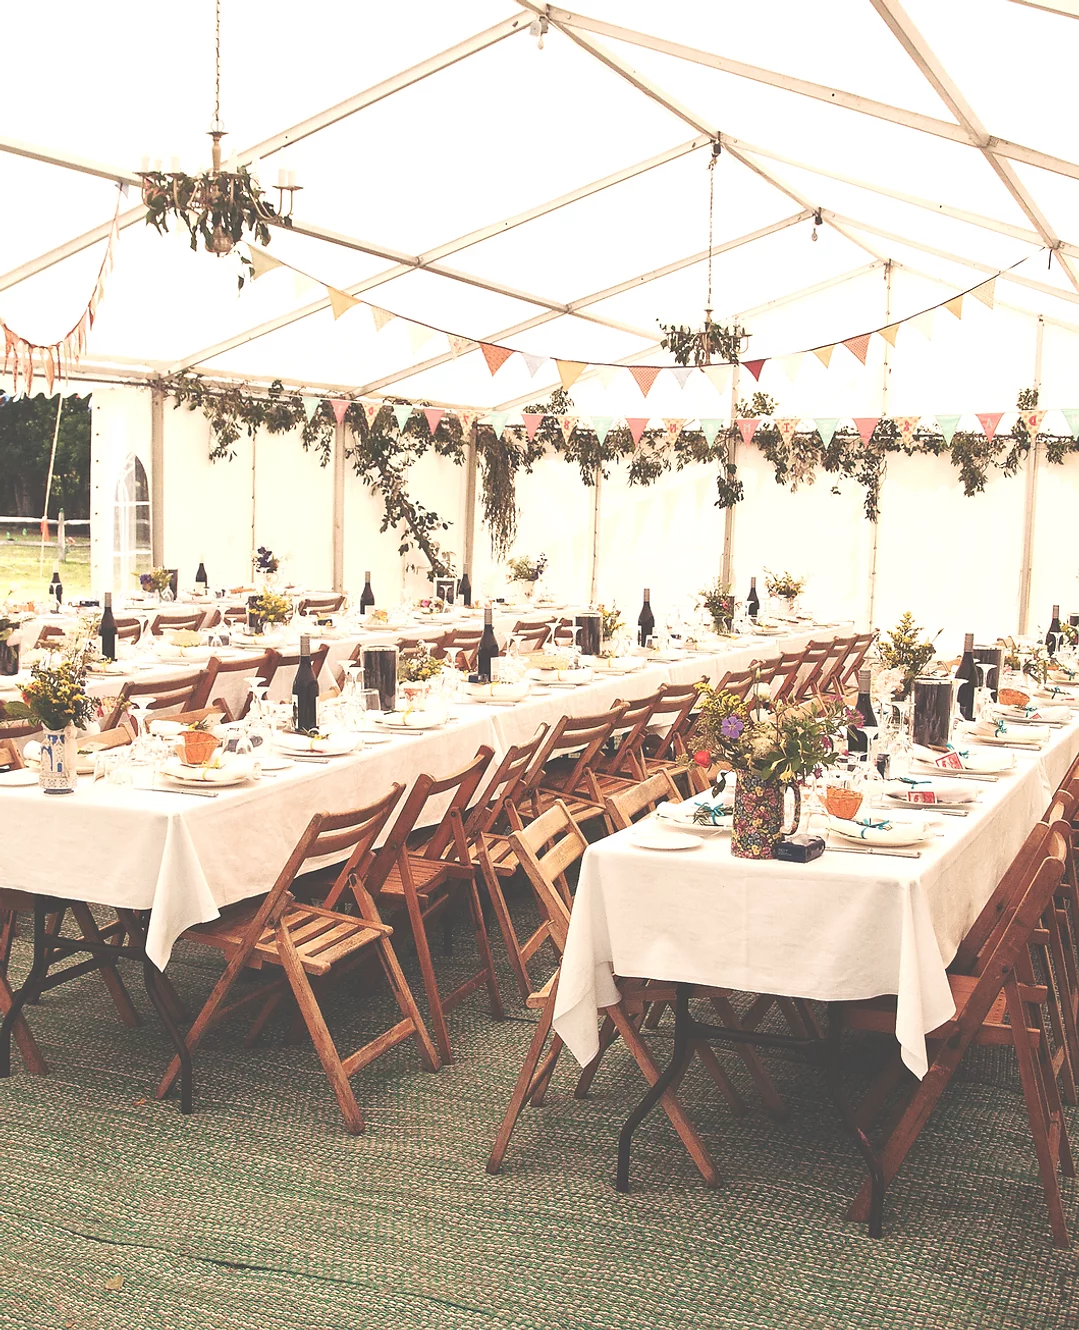
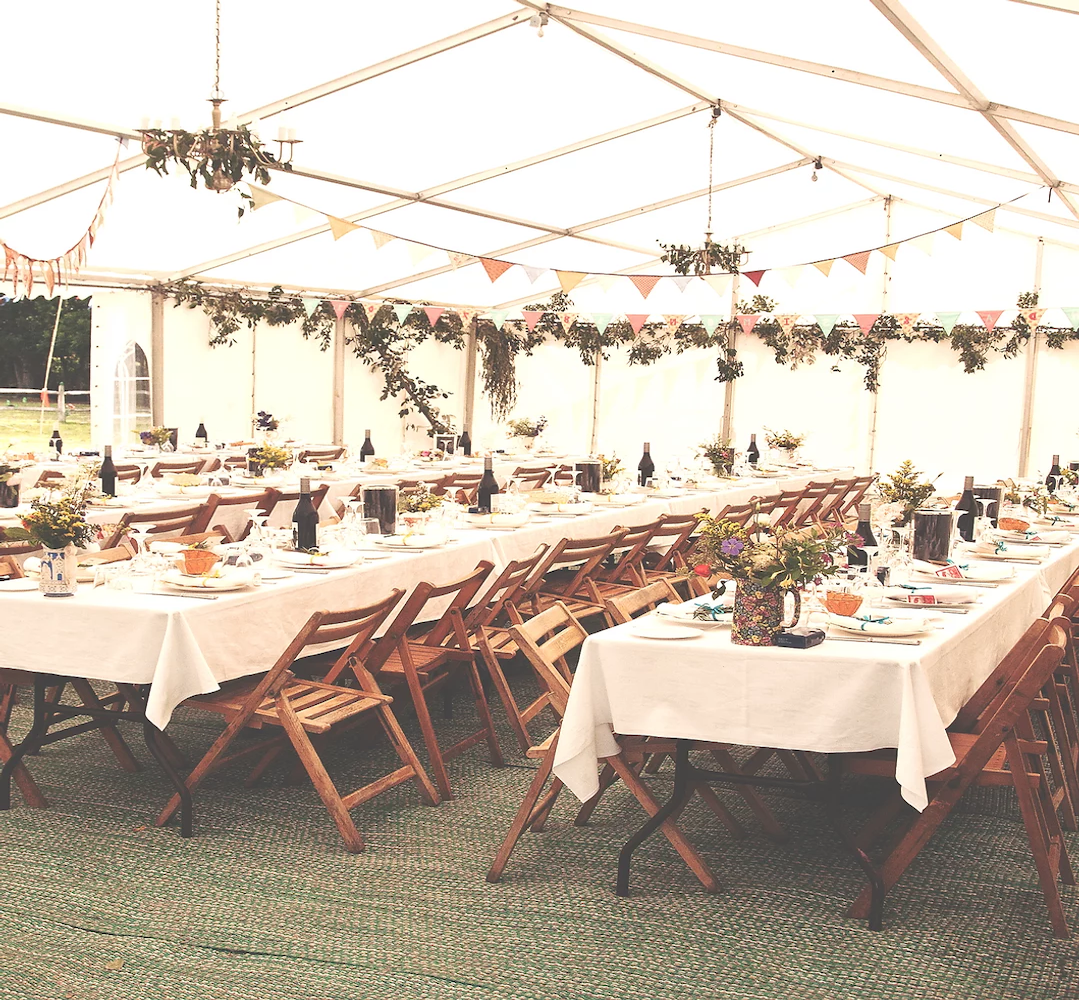
completed all sections without perfect styling

Changed region(s): [[0.5199, 0.961, 0.5811, 0.992], [0.6117, 0.961, 0.6423, 0.992]]

diff --git a/sm64.html b/sm64.html
@@ -5,46 +5,97 @@
     <meta name="viewport" content="width=device-width, initial-scale=1.0">
     <title>Assignment 1</title>
     <link rel="stylesheet" href="css/sm64.css">
+    <link rel="preconnect" href="https://fonts.googleapis.com">
+    <link rel="preconnect" href="https://fonts.gstatic.com" crossorigin>
+    <link href="https://fonts.googleapis.com/css2?family=EB+Garamond&display=swap" rel="stylesheet">    
+    <link href="https://fonts.googleapis.com/css2?family=Montserrat:wght@100&display=swap" rel="stylesheet">
+
 </head>
 <body>
     <nav class="sticky">
-        <div class = "left"><h4 id = "mainevent">MAIN EVENTS</h4></div>
+        <div class = "left"><h4 id = "mainevent" style="color: #a68e4c; font-size: 15px">MAIN EVENTS</h4></div>
         <div class = "right">
             <div></div>
-            <div>Home</div>
-            <div>Services</div>
-            <div>About</div>
-            <div>Gallery</div>
-            <div>Contact</div>
+            <button class = "nav-button" style="color: #a68e4c;  font-size: 12px">Home</button>
+            <button class = "nav-button" style = " font-size: 12px;">Services</button>
+            <button class = "nav-button" style = " font-size: 12px;">About</button>
+            <button class = "nav-button" style = " font-size: 12px;">Gallery</button>
+            <button class = "nav-button" style = " font-size: 12px;">Contact</button>
             <div></div>
         </div>
     </nav>
     <div class = "firstimage">
        <div class = "text-container-1">
-        <div>Creating</div>
-        <div>Unforgettable</div>
-        <div>Memories</div>
+        <div class = "text-1">Creating</div>
+        <div class = "text-1">Unforgettable</div>
+        <div class = "text-1">Memories</div>
        </div>
     </div>
     <div class = "secondsection">
         <div class = "servicesbox">
-            <div>SERVICES</div>
-            <div></div>
-            <div>*image here*</div>
-            <div>Turn the dream into a</div>
-            <div>reality</div>
-            <div>DISCOVER</div>
+            <div id = "flower-container">
+                <div style = "font-family: 'Montserrat', sans-serif; font-weight:bolder; color: white; letter-spacing: 10px; font-size: 20px;">SERVICES</div>
+            </div>
+            <div style="font-family: 'EB Garamond', serif; color: white;">Turn the dream into a</div>
+            <div style="font-family: 'EB Garamond', serif; color: white;">reality</div>
+            <button id = "transparent-button-1" style="color: white;">DISCOVER</button>
         </div>
-        <div class = "weddingimage"></div>
+        <div class = "weddingimage">
+            <img src = "./images/assignment1images/image1.png" height=430px width=500px>
+        </div>
     </div>
     <div class = "thirdsection">
         <div><img src = "images/assignment1images/doublecomma.png" height = 15px width = auto></div>
+        <div>&nbsp;</div>
+        <div>&nbsp;</div>
         <div>&nbsp;</div>
         <div>I'm a testimonial. Click to edit</div>
         <div>this text and say something nice</div>
         <div>about you and your services.</div>
         <div>&nbsp;</div>
+        <div>&nbsp;</div>
+        <div>&nbsp;</div>
+        <div>&nbsp;</div>
         <div style = "font-size: 12px;">Jimmy and Janice</div>
+    </div>
+    <div class = "fourthsection">
+        <div class = "third-image-container">
+            <div class = "gallerybox">
+                <div>GALLERY</div>
+                <div>&nbsp;</div>
+                <div>&nbsp;</div>
+                <div>&nbsp;</div>
+                <div>*image here*</div>
+                <div>Unforgettable</div>
+                <div>&nbsp;</div>
+                <div>Memories</div>
+                <div>&nbsp;</div>
+                <div>&nbsp;</div>
+                <div>&nbsp;</div>
+                <div><button id = "transparent-button-1">DISCOVER</button></div>
+            </div>
+        </div>
+    </div>
+    <div class = finalsection>
+        <div class ="footer">
+            <div id = "address">
+                <div>500 Temple Street</div>
+                <div>San Francisco</div>
+                <div>CA 94155</div>
+            </div>
+            <div id = "contact">
+                <div id = "footer-text">Tel: 123-555-1212</div>
+                <div id = "footer-text">Fax: 123-555-1213</div>
+                <div id = "footer-text">info@mainevents.c</div>
+                <div id = "footer-text">om</div>
+            </div>
+            <div id = "copyright">
+                <div id = "footer-text-1">© 2023 by Main Events.</div>
+            </div>
+            <div id = "consultationbuttonholder">
+                <button id = "transparent-button-2">BOOK A CONSULTATION</button>
+            </div>
+        </div>
     </div>
 </body>
 </html>

diff --git a/css/sm64.css b/css/sm64.css
@@ -8,7 +8,16 @@ body {
 	position: sticky;
 	top: 0;
     display: flex;
-    height: 85px;
+    height: 75px;
+    font-family: 'Montserrat', sans-serif;
+}
+
+.nav-button {
+    background-color: Transparent;
+    background-repeat:no-repeat;
+    border: none;
+    cursor:pointer;
+    overflow: hidden;   
 }
 
 .left {
@@ -33,46 +42,69 @@ body {
 .firstimage {
     display: flex;
     justify-content: center;
-    align-items: center;
     background-image: url("../images/assignment1images/image3.png");
     background-attachment: fixed;
     background-position: center;
     background-size: cover;
-    min-height: 760px;
+    min-height: 720px;
     height: 600px;
 }
 
 
 .text-container-1 {
+    padding-top: 160px;
     display: flex;
     flex-direction: column;
+    gap: 15px;
+    font-family: 'EB Garamond', serif;
+    letter-spacing: 14px;
+    font-size: 50px;
+    color: white;
+}
+
+.text-1 {
+    display: flex;
+    justify-content: center;
+    align-items: center;
 }
 
 .secondsection {
     /*border: 0.5rem outset pink;*/
     display: flex;
-    height: 630px;
+    height: 560px;
     align-items: center;
     gap: 60px;
 }
 
 .servicesbox {
     flex: 3;
-    height: 500px;
+    height: 430px;
     margin-left: 60px;
-    background-color: #a68e4c;
+    background-color: #AF9453;
     display: flex;
     flex-direction: column;
-    align-items: center;
     justify-content: center;
+    align-items: center;
+    gap: 20px;
 }
 
 .weddingimage {
-    flex: 6;
-    height: 500px;
+    flex: 5;
+    height: 430px;
+    width: 500;
     margin-right: 50px;
-    background-image: url("../images/assignment1images/image1.png");
 
+}
+
+#flower-container {
+    display: flex;
+    flex-direction: column;
+    align-items: center;
+    height: 100px;
+    width: 300px;;
+    background-image: url("../images/assignment1images/flower.png");
+    background-size: 350px;
+    background-position: bottom 70% left 50%;
 }
 
 .thirdsection {
@@ -82,4 +114,122 @@ body {
     flex-direction: column;
     align-items: center;
     justify-content: center;
+}
+
+.fourthsection {
+    height: 700px;
+    display: flex;
+    justify-content: center;
+    align-items: center;
+    border: 0.5rem outset black;
+}
+
+.third-image-container {
+    height: 540px;
+    width: 800px;
+    background-image: url("../images/assignment1images/image2.png");
+    background-attachment: fixed;
+    background-position: center;
+    background-size: cover;
+    display: flex;
+    flex-direction: column;
+    align-items: flex-end;
+}
+
+.gallerybox {
+    display: flex;
+    flex-direction: column;
+    background-color: #AF9453;
+    height: 430px;
+    width: 230px;
+    align-items: center;
+    justify-content: center;
+    margin-right: 50px;
+    margin-top: 20px;
+}
+
+.finalsection {
+    height: 220px;
+    display: flex;
+    justify-content: center;
+    align-items: center;
+}
+
+.footer {
+    background-color: #AF9453;
+    height: 170px;
+    width: 90%;
+    display: flex;
+    align-items: center;
+    gap: 20px;
+}
+
+#footer-text {
+    padding-left: 8px;
+}
+
+#footer-text-1 {
+    padding-left: 4px;
+}
+
+#address {
+    flex: 1.5;
+    height: 80px;
+    width: 160px;
+    padding-left: 70px;
+    display: flex;
+    flex-direction: column;
+    border-right: 0.5px solid white;;
+}
+
+#contact {
+    flex: 1.5;
+    height: 80px;
+    width: 160px;
+    display: flex;
+    flex-direction: column;
+    border-right: 0.5px solid white;;
+}
+
+#copyright {
+    flex: 2;
+    height: 80px;
+    width: 170px;
+    display: flex;
+    flex-direction: column;
+
+}
+
+#consultationbuttonholder {
+    flex: 3;
+
+    height: 80px;
+    width: 220px;
+    display: flex;
+    flex-direction: column;
+    justify-content: center;
+    margin-left: -15px;
+}
+
+#transparent-button-1 {   
+
+    width: 140px;
+    background-color: Transparent;
+    background-repeat:no-repeat;
+    border: 0.7px solid white;
+    height: 35px;
+    cursor:pointer;
+    overflow: hidden;
+}
+
+#transparent-button-2 {   
+
+        width: 200px;
+        background-color: Transparent;
+        background-repeat:no-repeat;
+        border: 0.7px solid white;
+        height: 35px;
+        cursor:pointer;
+        overflow: hidden;        
+
 }
